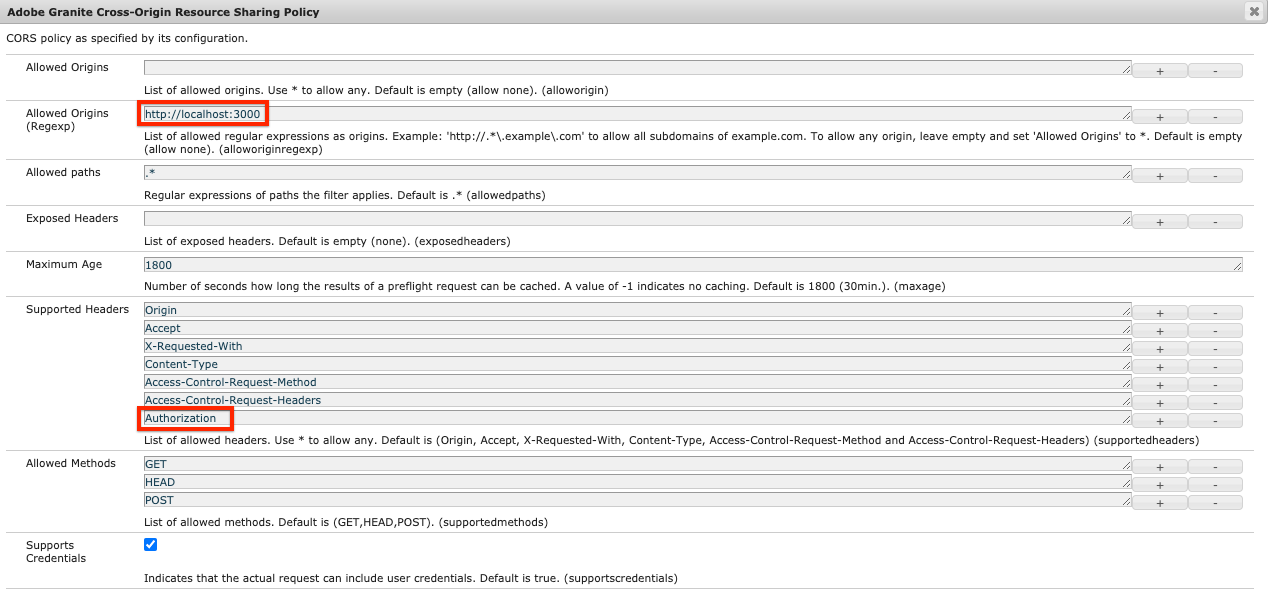
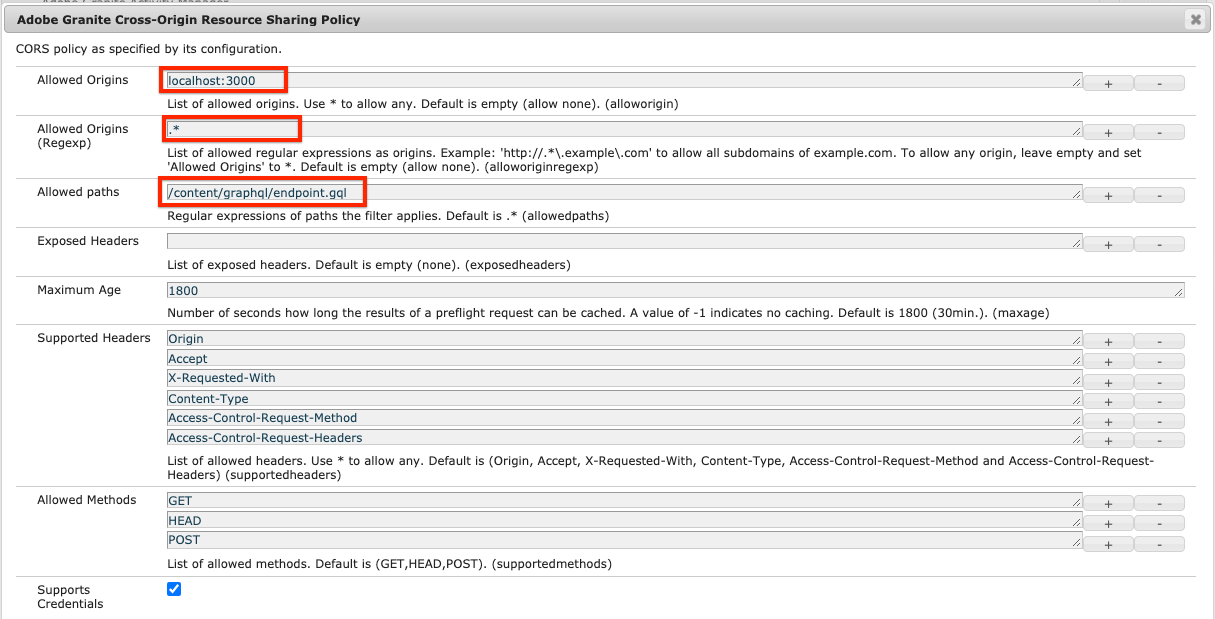
Headless endpoints (#6)

Changed region(s): [[0.0, 0.0, 1.0, 1.0], [0.9745, 0.9763, 1.0, 1.0], [0.9745, 0.0915, 1.0, 0.122]]

diff --git a/README.md b/README.md
@@ -26,6 +26,10 @@ This project assumes that the AEM environment has the GraphQL API feature **enab
 
 This project relies on sample content from the WKND Reference site. Install the [WKND Reference Site on your local AEM environment](https://github.com/adobe/aem-guides-wknd/releases/latest).
 
+### Install Sample Endpoints
+
+This project relies on GraphQL endpoints and configurations installed. Build and install the sample [AEM Project](../aem-project/README.md) on the target AEM environment.
+
 ### Update Environment Variables
 
 Several [environment variables](https://create-react-app.dev/docs/adding-custom-environment-variables) are used by this project to connect to an AEM environment. Default connects to an AEM author environment running at http://localhost:4502. If you wish to change this behavior update the `.env.development` file accordingly:
@@ -42,7 +46,7 @@ If connecting to a local AEM author environment, no updates are needed.
 
 ### CORS - Cross Origin Resource Sharing
 
-This project relies on a CORS configuration running on the target AEM environment and assumes that the app is running on http://localhost:3000 in development mode.
+This project relies on a CORS configuration running on the target AEM environment and assumes that the app is running on http://localhost:3000 in development mode. The [CORs configuration](../aem-project/ui.config/src/main/content/jcr_root/apps/wknd-graphql/osgiconfig) is part of the sample [AEM Project](../aem-project/README.md).
 
 ![CORS Configuration](docs/cors-config-TMP.png)
 
